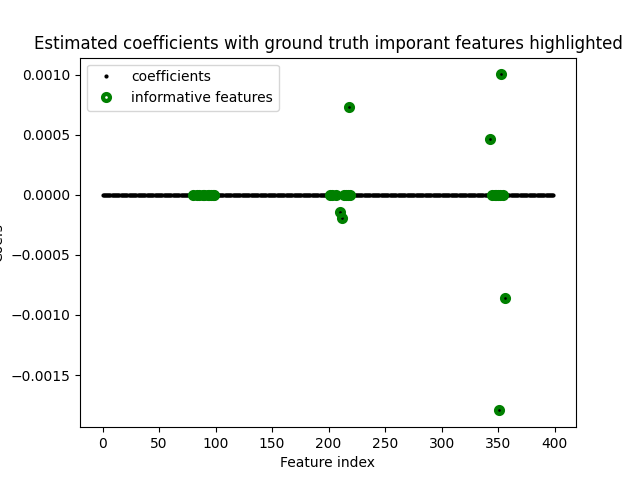
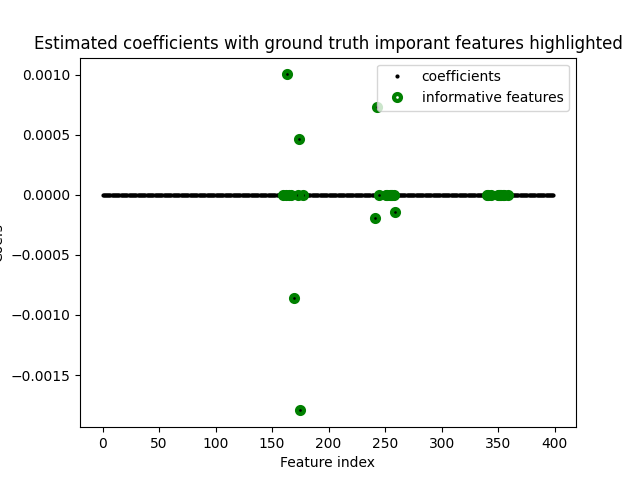
Deploying to gh-pages from  @ c9c7d6a699c53298a22735b88df6befc4d54f18e 🚀

diff --git a/searchindex.js b/searchindex.js
@@ -1,1 +1,1 @@
-Search.setIndex({docnames:["api","auto_examples/index","auto_examples/plot_classifier","auto_examples/sg_execution_times","contributing","getting_help","index","install","user_guide"],envversion:{"sphinx.domains.c":2,"sphinx.domains.changeset":1,"sphinx.domains.citation":1,"sphinx.domains.cpp":3,"sphinx.domains.index":1,"sphinx.domains.javascript":2,"sphinx.domains.math":2,"sphinx.domains.python":2,"sphinx.domains.rst":2,"sphinx.domains.std":1,"sphinx.ext.intersphinx":1,"sphinx.ext.viewcode":1,sphinx:56},filenames:["api.rst","auto_examples/index.rst","auto_examples/plot_classifier.rst","auto_examples/sg_execution_times.rst","contributing.rst","getting_help.rst","index.rst","install.rst","user_guide.rst"],objects:{"groupyr.datasets":{make_group_classification:[0,1,1,""],make_group_regression:[0,1,1,""]},groupyr:{LogisticSGL:[0,0,1,""],LogisticSGLCV:[0,0,1,""],SGL:[0,0,1,""],SGLCV:[0,0,1,""]}},objnames:{"0":["py","class","Python class"],"1":["py","function","Python function"]},objtypes:{"0":"py:class","1":"py:function"},terms:{"001":[0,6],"100":[0,2],"1000":0,"101":[2,3],"10618600":0,"108":6,"1080":0,"122":6,"1283339":6,"2003":0,"201":2,"2011":6,"2012":0,"2013":6,"2020":6,"203":2,"207":2,"210":2,"212":2,"214":2,"215":2,"217":2,"218":2,"219":2,"231":[0,6],"245":[0,6],"25080":6,"2825":6,"2830":6,"343":2,"345":2,"347":2,"348":2,"350":2,"351":2,"352":2,"353":2,"354":2,"356":2,"4064945":6,"4af1f417":6,"5281":6,"681250":0,"boolean":0,"case":0,"class":0,"default":0,"float":0,"function":0,"import":2,"int":0,"new":[5,7],"public":6,"return":0,"true":[0,2],"while":[0,8],And:6,For:0,The:[0,2,7],These:0,Use:0,Used:0,__init__:0,about:[0,5],accuracy_scor:0,across:0,actual:0,adam:6,adapt:0,add:0,added:0,after:0,alfr:6,algorithm:0,all:[0,1,5,7],allow:5,along:0,alpha:[0,6],alpha_:0,alpha_max:0,alpha_min:0,alphas_:0,also:[0,4],altern:7,amount:0,ani:[0,5],appli:0,appreci:6,appropri:[0,4],arang:2,arbitrari:0,ariel:6,around:0,arrai:0,ask:5,assign:[0,6],attribut:0,author:6,auto_exampl:3,auto_examples_jupyt:1,auto_examples_python:1,automat:0,avail:4,balanc:0,basic:6,becaus:0,befor:[0,5],belong:[0,6],benchmark:0,best:[0,2],beta:6,betti:6,between:[0,6],bia:0,bibtex:6,bioengin:6,biomed:6,black:2,bool:0,borrow:6,both:6,bug:5,built:0,buitnick:6,button:5,calcul:0,call:0,callabl:0,can:[0,5,6,7],canon:0,capabl:0,center:0,character:6,choic:0,chosen:0,chosen_features_:2,citat:6,class_sep:0,classes_:0,classif:0,classifi:0,click:[2,5],clone:7,close:0,cluster:0,code:[1,2,7],coef:[0,2],coef_:[0,2],coeffici:[0,2,6],collabor:[4,6],column:6,com:7,combin:[0,6],compar:2,compat:[0,6],compos:0,composit:6,compris:0,compromis:0,comput:[0,6],constant:0,construct:0,contain:0,context:0,contigu:0,contrast:0,contribut:7,control:6,converg:0,copi:0,copt:6,copy_x:0,cost:0,covari:[0,6],cpu:0,creat:0,credit:4,criterion:0,data:[0,5,6],dataset:2,decis:0,depend:[0,7],descent:0,design:[0,6],detail:[4,6],determin:0,develop:[4,6],deviat:0,differ:0,dimens:0,dimension:[0,6],distribut:0,divid:0,document:0,doi:[0,6],download:[1,2],drawn:0,duplic:0,dure:0,each:0,easier:0,ecml:6,edit:8,effect:0,effective_rank:0,effici:0,elasticnet:0,eleftherio:6,element:0,ell:6,els:0,encod:0,encourag:0,entri:6,eps:[0,2],equal:0,error:0,escienc:6,estim:[2,6],ethic:5,evalu:0,examin:5,exampl:[0,2,7],exce:0,exchang:0,execut:3,expect:0,experi:[0,6],explain:0,face:5,facilit:6,factor:0,fals:0,featur:[0,2,6,7],features_per_group:0,file:3,find:0,fit:[0,2,6],fit_intercept:0,flag:0,flip:6,flip_i:0,fold:0,formula:0,foundat:6,frac:6,fraction:0,friedman:[0,6],from:[0,2,4,6,7],full:2,further:[0,6,7],galleri:[1,2,6,7],garyfallidi:6,gaussian:0,gener:2,giant:0,git:7,github:[5,7],give:[0,6],global:6,going:5,good:0,gordon:6,gradient:0,grant:6,graphic:[0,6],green:2,grid:0,ground:2,group:[1,3],group_length:0,groupyr:[0,2,7],guid:[0,7],guidelin:[4,7],guyon:0,halford:6,happen:0,harder:0,has:0,hasti:[0,6],hat:6,have:0,heavili:6,here:[0,2,4],high:6,highlight:2,hot:0,how:[5,6,7],http:[6,7],hyper:0,hypercub:0,hyperparamet:[0,6],idx:2,ignor:0,imag:6,implement:6,impor:2,includ:[0,7],include_solver_trac:0,independ:0,index:2,indiana:6,indic:[0,2],infer:0,inform:[0,2,5,6,7],initi:0,input:0,instal:[5,6],instanc:0,institut:6,instruct:6,integ:0,intend:[0,6],intercept:0,intercept_:0,interdepend:0,introduc:0,introductori:[1,6],ipynb:2,issu:[5,8],iter:0,its:[6,7],jerom:0,joblib:0,journal:[0,6],jupyt:[1,2],just:0,kfold:0,know:5,known:0,l1_ratio:[0,2],l1_ratio_:0,label:[0,2],lambda:6,languag:6,larger:0,lasso:[1,3],last:0,learn:[0,6],legend:2,len:0,length:[0,6],less:7,librari:6,licens:[4,6],like:[0,7],linear:[0,6],linearli:0,list:0,loc:2,locat:0,logist:[0,1,3],logistic_sgl_path:0,logisticsgl:0,logisticsglcv:[0,2],logo:6,look:[0,6],machin:6,madelon:0,mai:[0,7],majora:6,make:[0,5],make_blob:0,make_classif:0,make_group_classif:[0,2],make_group_regress:0,make_multilabel_classif:0,make_regress:0,marker:2,mathbf:6,matplotlib:2,matrix:[0,6],max_it:0,maximum:0,mean:[0,4],mec:2,membership:0,method:0,metric:0,mew:2,mfc:2,might:5,mild:0,min_:6,mine:6,minut:2,model:[0,2,6],month:6,moor:6,more:0,mse_path_:0,multilabel:0,multipl:0,multipli:0,must:6,n_alpha:[0,2],n_class:[0,2],n_clusters_per_class:0,n_featur:[0,2],n_features_per_group:[0,2],n_fold:0,n_group:[0,2],n_inform:0,n_informative_group:[0,2],n_informative_per_group:[0,2],n_iter_:0,n_job:0,n_l1_ratio:0,n_redund:0,n_redundant_per_group:[0,2],n_repeat:0,n_repeated_per_group:[0,2],n_sampl:[0,2],n_target:0,narayan:6,nation:6,ndarrai:0,need:5,neurosci:6,next:7,nih:6,nine:0,nip:0,noah:0,nois:0,non:[0,2],none:[0,2],norm:0,normal:[0,6],note:0,notebook:[1,2],number:[0,6],numpi:[0,2],object:0,oct:6,often:5,one:0,onli:0,open:[4,8],oper:5,optim:[0,6],option:0,order:0,org:6,other:0,our:[4,5],out:[0,2],output:0,outsid:4,overal:0,overlap:0,overwritten:0,own:8,page:[5,6],parallel_backend:0,paramet:0,partit:0,pass:0,path:0,patient:8,pedregosa:6,penal:[0,6],penalti:[0,6],per:0,pertin:5,pgd:0,pip:7,pkdd:6,place:0,pleas:[0,5,8],plot:2,plot_classifi:[2,3],plt:2,point:0,polytop:0,posit:0,possibl:0,post:5,predefin:6,predict:0,predictor:0,preprocess:0,previou:0,primari:0,print:2,prior:0,problem:[0,6],procedur:5,processor:0,produc:0,project:[4,6],promot:6,proport:0,provid:[0,5],proxim:0,pseudo:0,publish:6,put:0,pypi:7,pyplot:2,python:[1,2,7],r01eb027585:6,randal:6,random:0,random_st:[0,2],randomli:0,randomst:0,reach:0,recommend:7,redund:0,regress:[0,2,6],regressor:0,regular:[0,6],relat:6,relationship:6,reli:6,remain:0,repeat:0,repositori:[5,7],reproduc:0,requir:7,research:[4,6],result:0,reus:0,richford:7,richi:6,richie_halford_adam_2020_4064945:6,robert:0,rokem:6,root:0,routin:0,run:[0,2,5],same:0,sampl:[0,5],satisfi:6,scale:[0,2],scale_l2_bi:0,scientif:6,scikit:[0,6],score:0,scorer:0,scoring_path_:0,script:2,search:0,second:2,see:[0,4,6,7],seed:0,select:0,send:5,set:[0,6],sgl:0,sgl_path:0,sglcv:0,shape:[0,2],share:5,shift:0,should:0,show:2,shuffl:0,side:0,signal:[1,3],signatur:0,silhouett:6,simon:[0,6],simplifi:0,simul:2,singular:0,size:0,sklearn:0,sloan:6,small:5,softwar:[4,5,6],solut:0,solv:0,solver:[0,6],some:0,sourc:[0,1,2,4,7],spars:[1,3],sparsiti:[0,6],specifi:0,sphinx:[1,2],split:0,splitter:0,spread:0,sqrt:6,squar:0,stabl:7,stack:0,standard:0,standardscal:0,start:0,statist:[0,6],std:0,stop:0,strategi:0,strength:[0,6],string:0,strong:0,studi:5,submatrix:6,subspac:0,subtract:0,suggest:8,sum:0,sum_:6,supervis:6,support:6,suppress:0,suppress_solver_warn:0,sure:5,synthet:0,system:5,target:6,task:0,techniqu:0,templat:6,term:0,test:0,than:0,thei:0,therefor:6,thi:[0,4,5,7,8],three:0,through:6,tibshirani:[0,6],time:2,titl:[2,6],tol:[0,2],toler:0,total:[0,2,3,6],train:0,trevor:0,truth:2,tune:0,type:0,univers:6,unless:0,unrel:0,unshuffl:0,updat:[0,8],url:6,usag:6,use:[0,4,6,7],used:0,useful:0,useful_indic:[0,2],useless:0,user:[0,7],uses:0,using:[0,6,7],valu:0,vari:0,variabl:[0,6],variant:0,variou:0,vector:[0,6],verbos:0,version:[0,5,6],vertic:0,via:0,vol:0,wai:7,warm:0,warm_start:0,warn:0,washington:6,weight:0,welcom:4,well:[5,6],what:5,when:0,where:[0,2,6],whether:0,which:0,whose:0,wise:[0,6],wish:0,within:0,workshop:6,would:[0,6,7],xlabel:2,year:6,yield:[0,6],ylabel:2,you:[0,4,5,6,7],your:[5,8],zenodo:6,zero:[0,2],zip:1},titles:["API Reference","General examples","Logistic Sparse Group Lasso for grouped sparse signals","Computation times","Contributing to <em>groupyr</em>","Getting help using <em>groupyr</em>","Groupyr: Sparse Group Lasso in Python","Installation","User guide : contents"],titleterms:{The:6,acknowledg:6,api:[0,6],cite:6,comput:3,construct:8,contribut:4,cross:0,dataset:0,develop:7,document:6,estim:0,exampl:[1,6],gener:[0,1],get:[5,6],group:[0,2,6],groupyr:[4,5,6],guid:[6,8],help:5,instal:7,lasso:[0,2,6],logist:2,python:6,refer:[0,6],releas:7,signal:2,spars:[0,2,6],start:6,time:3,under:8,user:[6,8],using:5,valid:0,version:7}})
+Search.setIndex({docnames:["api","auto_examples/index","auto_examples/plot_classifier","auto_examples/sg_execution_times","contributing","getting_help","index","install","user_guide"],envversion:{"sphinx.domains.c":2,"sphinx.domains.changeset":1,"sphinx.domains.citation":1,"sphinx.domains.cpp":3,"sphinx.domains.index":1,"sphinx.domains.javascript":2,"sphinx.domains.math":2,"sphinx.domains.python":2,"sphinx.domains.rst":2,"sphinx.domains.std":1,"sphinx.ext.intersphinx":1,"sphinx.ext.viewcode":1,sphinx:56},filenames:["api.rst","auto_examples/index.rst","auto_examples/plot_classifier.rst","auto_examples/sg_execution_times.rst","contributing.rst","getting_help.rst","index.rst","install.rst","user_guide.rst"],objects:{"groupyr.datasets":{make_group_classification:[0,1,1,""],make_group_regression:[0,1,1,""]},groupyr:{LogisticSGL:[0,0,1,""],LogisticSGLCV:[0,0,1,""],SGL:[0,0,1,""],SGLCV:[0,0,1,""]}},objnames:{"0":["py","class","Python class"],"1":["py","function","Python function"]},objtypes:{"0":"py:class","1":"py:function"},terms:{"001":[0,6],"100":[0,2],"1000":0,"10618600":0,"108":6,"1080":0,"122":6,"1283339":6,"160":2,"162":2,"163":2,"165":2,"167":2,"169":2,"173":2,"174":2,"175":2,"177":2,"2003":0,"2011":6,"2012":0,"2013":6,"2020":6,"231":[0,6],"241":2,"243":2,"245":[0,2,6],"25080":6,"251":2,"252":2,"254":2,"255":2,"256":2,"258":2,"259":2,"2825":6,"2830":6,"339":[2,3],"340":2,"341":2,"344":2,"350":2,"351":2,"352":2,"353":2,"354":2,"355":2,"359":2,"4064945":6,"4af1f417":6,"5281":6,"681250":0,"boolean":0,"case":0,"class":0,"default":0,"float":0,"function":0,"import":2,"int":0,"new":[5,7],"public":6,"return":0,"true":[0,2],"while":[0,8],And:6,For:0,The:[0,2,7],These:0,Use:0,Used:0,__init__:0,about:[0,5],accuracy_scor:0,across:0,actual:0,adam:6,adapt:0,add:0,added:0,after:0,alfr:6,algorithm:0,all:[0,1,5,7],allow:5,along:0,alpha:[0,6],alpha_:0,alpha_max:0,alpha_min:0,alphas_:0,also:[0,4],altern:7,amount:0,ani:[0,5],appli:0,appreci:6,appropri:[0,4],arang:2,arbitrari:0,ariel:6,around:0,arrai:0,ask:5,assign:[0,6],attribut:0,author:6,auto_exampl:3,auto_examples_jupyt:1,auto_examples_python:1,automat:0,avail:4,balanc:0,basic:6,becaus:0,befor:[0,5],belong:[0,6],benchmark:0,best:[0,2],beta:6,betti:6,between:[0,6],bia:0,bibtex:6,bioengin:6,biomed:6,black:2,bool:0,borrow:6,both:6,bug:5,built:0,buitnick:6,button:5,calcul:0,call:0,callabl:0,can:[0,5,6,7],canon:0,capabl:0,center:0,character:6,choic:0,chosen:0,chosen_features_:2,citat:6,class_sep:0,classes_:0,classif:0,classifi:0,click:[2,5],clone:7,close:0,cluster:0,code:[1,2,7],coef:[0,2],coef_:[0,2],coeffici:[0,2,6],collabor:[4,6],column:6,com:7,combin:[0,6],compar:2,compat:[0,6],compos:0,composit:6,compris:0,compromis:0,comput:[0,6],constant:0,construct:0,contain:0,context:0,contigu:0,contrast:0,contribut:7,control:6,converg:0,copi:0,copt:6,copy_x:0,cost:0,covari:[0,6],cpu:0,creat:0,credit:4,criterion:0,data:[0,5,6],dataset:2,decis:0,depend:[0,7],descent:0,design:[0,6],detail:[4,6],determin:0,develop:[4,6],deviat:0,differ:0,dimens:0,dimension:[0,6],distribut:0,divid:0,document:0,doi:[0,6],download:[1,2],drawn:0,duplic:0,dure:0,each:0,easier:0,ecml:6,edit:8,effect:0,effective_rank:0,effici:0,elasticnet:0,eleftherio:6,element:0,ell:6,els:0,encod:0,encourag:0,entri:6,eps:[0,2],equal:0,error:0,escienc:6,estim:[2,6],ethic:5,evalu:0,examin:5,exampl:[0,2,7],exce:0,exchang:0,execut:3,expect:0,experi:[0,6],explain:0,face:5,facilit:6,factor:0,fals:0,featur:[0,2,6,7],features_per_group:0,file:3,find:0,fit:[0,2,6],fit_intercept:0,flag:0,flip:6,flip_i:0,fold:0,formula:0,foundat:6,frac:6,fraction:0,friedman:[0,6],from:[0,2,4,6,7],full:2,further:[0,6,7],galleri:[1,2,6,7],garyfallidi:6,gaussian:0,gener:2,giant:0,git:7,github:[5,7],give:[0,6],global:6,going:5,good:0,gordon:6,gradient:0,grant:6,graphic:[0,6],green:2,grid:0,ground:2,group:[1,3],group_length:0,groupyr:[0,2,7],guid:[0,7],guidelin:[4,7],guyon:0,halford:6,happen:0,harder:0,has:0,hasti:[0,6],hat:6,have:0,heavili:6,here:[0,2,4],high:6,highlight:2,hot:0,how:[5,6,7],http:[6,7],hyper:0,hypercub:0,hyperparamet:[0,6],idx:2,ignor:0,imag:6,implement:6,impor:2,includ:[0,7],include_solver_trac:0,independ:0,index:2,indiana:6,indic:[0,2],infer:0,inform:[0,2,5,6,7],initi:0,input:0,instal:[5,6],instanc:0,institut:6,instruct:6,integ:0,intend:[0,6],intercept:0,intercept_:0,interdepend:0,introduc:0,introductori:[1,6],ipynb:2,issu:[5,8],iter:0,its:[6,7],jerom:0,joblib:0,journal:[0,6],jupyt:[1,2],just:0,kfold:0,know:5,known:0,l1_ratio:[0,2],l1_ratio_:0,label:[0,2],lambda:6,languag:6,larger:0,lasso:[1,3],last:0,learn:[0,6],legend:2,len:0,length:[0,6],less:7,librari:6,licens:[4,6],like:[0,7],linear:[0,6],linearli:0,list:0,loc:2,locat:0,logist:[0,1,3],logistic_sgl_path:0,logisticsgl:0,logisticsglcv:[0,2],logo:6,look:[0,6],machin:6,madelon:0,mai:[0,7],majora:6,make:[0,5],make_blob:0,make_classif:0,make_group_classif:[0,2],make_group_regress:0,make_multilabel_classif:0,make_regress:0,marker:2,mathbf:6,matplotlib:2,matrix:[0,6],max_it:0,maximum:0,mean:[0,4],mec:2,membership:0,method:0,metric:0,mew:2,mfc:2,might:5,mild:0,min_:6,mine:6,minut:2,model:[0,2,6],month:6,moor:6,more:0,mse_path_:0,multilabel:0,multipl:0,multipli:0,must:6,n_alpha:[0,2],n_class:[0,2],n_clusters_per_class:0,n_featur:[0,2],n_features_per_group:[0,2],n_fold:0,n_group:[0,2],n_inform:0,n_informative_group:[0,2],n_informative_per_group:[0,2],n_iter_:0,n_job:0,n_l1_ratio:0,n_redund:0,n_redundant_per_group:[0,2],n_repeat:0,n_repeated_per_group:[0,2],n_sampl:[0,2],n_target:0,narayan:6,nation:6,ndarrai:0,need:5,neurosci:6,next:7,nih:6,nine:0,nip:0,noah:0,nois:0,non:[0,2],none:[0,2],norm:0,normal:[0,6],note:0,notebook:[1,2],number:[0,6],numpi:[0,2],object:0,oct:6,often:5,one:0,onli:0,open:[4,8],oper:5,optim:[0,6],option:0,order:0,org:6,other:0,our:[4,5],out:[0,2],output:0,outsid:4,overal:0,overlap:0,overwritten:0,own:8,page:[5,6],parallel_backend:0,paramet:0,partit:0,pass:0,path:0,patient:8,pedregosa:6,penal:[0,6],penalti:[0,6],per:0,pertin:5,pgd:0,pip:7,pkdd:6,place:0,pleas:[0,5,8],plot:2,plot_classifi:[2,3],plt:2,point:0,polytop:0,posit:0,possibl:0,post:5,predefin:6,predict:0,predictor:0,preprocess:0,previou:0,primari:0,print:2,prior:0,problem:[0,6],procedur:5,processor:0,produc:0,project:[4,6],promot:6,proport:0,provid:[0,5],proxim:0,pseudo:0,publish:6,put:0,pypi:7,pyplot:2,python:[1,2,7],r01eb027585:6,randal:6,random:0,random_st:[0,2],randomli:0,randomst:0,reach:0,recommend:7,redund:0,regress:[0,2,6],regressor:0,regular:[0,6],relat:6,relationship:6,reli:6,remain:0,repeat:0,repositori:[5,7],reproduc:0,requir:7,research:[4,6],result:0,reus:0,richford:7,richi:6,richie_halford_adam_2020_4064945:6,robert:0,rokem:6,root:0,routin:0,run:[0,2,5],same:0,sampl:[0,5],satisfi:6,scale:[0,2],scale_l2_bi:0,scientif:6,scikit:[0,6],score:0,scorer:0,scoring_path_:0,script:2,search:0,second:2,see:[0,4,6,7],seed:0,select:0,send:5,set:[0,6],sgl:0,sgl_path:0,sglcv:0,shape:[0,2],share:5,shift:0,should:0,show:2,shuffl:0,side:0,signal:[1,3],signatur:0,silhouett:6,simon:[0,6],simplifi:0,simul:2,singular:0,size:0,sklearn:0,sloan:6,small:5,softwar:[4,5,6],solut:0,solv:0,solver:[0,6],some:0,sourc:[0,1,2,4,7],spars:[1,3],sparsiti:[0,6],specifi:0,sphinx:[1,2],split:0,splitter:0,spread:0,sqrt:6,squar:0,stabl:7,stack:0,standard:0,standardscal:0,start:0,statist:[0,6],std:0,stop:0,strategi:0,strength:[0,6],string:0,strong:0,studi:5,submatrix:6,subspac:0,subtract:0,suggest:8,sum:0,sum_:6,supervis:6,support:6,suppress:0,suppress_solver_warn:0,sure:5,synthet:0,system:5,target:6,task:0,techniqu:0,templat:6,term:0,test:0,than:0,thei:0,therefor:6,thi:[0,4,5,7,8],three:0,through:6,tibshirani:[0,6],time:2,titl:[2,6],tol:[0,2],toler:0,total:[0,2,3,6],train:0,trevor:0,truth:2,tune:0,type:0,univers:6,unless:0,unrel:0,unshuffl:0,updat:[0,8],url:6,usag:6,use:[0,4,6,7],used:0,useful:0,useful_indic:[0,2],useless:0,user:[0,7],uses:0,using:[0,6,7],valu:0,vari:0,variabl:[0,6],variant:0,variou:0,vector:[0,6],verbos:0,version:[0,5,6],vertic:0,via:0,vol:0,wai:7,warm:0,warm_start:0,warn:0,washington:6,weight:0,welcom:4,well:[5,6],what:5,when:0,where:[0,2,6],whether:0,which:0,whose:0,wise:[0,6],wish:0,within:0,workshop:6,would:[0,6,7],xlabel:2,year:6,yield:[0,6],ylabel:2,you:[0,4,5,6,7],your:[5,8],zenodo:6,zero:[0,2],zip:1},titles:["API Reference","General examples","Logistic Sparse Group Lasso for grouped sparse signals","Computation times","Contributing to <em>groupyr</em>","Getting help using <em>groupyr</em>","Groupyr: Sparse Group Lasso in Python","Installation","User guide : contents"],titleterms:{The:6,acknowledg:6,api:[0,6],cite:6,comput:3,construct:8,contribut:4,cross:0,dataset:0,develop:7,document:6,estim:0,exampl:[1,6],gener:[0,1],get:[5,6],group:[0,2,6],groupyr:[4,5,6],guid:[6,8],help:5,instal:7,lasso:[0,2,6],logist:2,python:6,refer:[0,6],releas:7,signal:2,spars:[0,2,6],start:6,time:3,under:8,user:[6,8],using:5,valid:0,version:7}})

diff --git a/auto_examples/plot_classifier.html b/auto_examples/plot_classifier.html
@@ -185,10 +185,10 @@ ground-truth.</p>
 <img alt="Estimated coefficients with ground truth imporant features highlighted" class="sphx-glr-single-img" src="../_images/sphx_glr_plot_classifier_001.png" />
 <p class="sphx-glr-script-out">Out:</p>
 <div class="sphx-glr-script-out highlight-none notranslate"><div class="highlight"><pre><span></span>Indices of ground-truth informative features:
-[ 80  84  85  89  90  93  94  96  98  99 201 203 207 210 212 214 215 217
- 218 219 343 345 347 348 350 351 352 353 354 356]
+[160 162 163 165 167 169 173 174 175 177 241 243 245 251 252 254 255 256
+ 258 259 340 341 344 350 351 352 353 354 355 359]
 Indices of non-zero estimated coefs:
-[210 212 218 343 350 351 353 356]
+[163 165 169 174 175 241 243 259]
 </pre></div>
 </div>
 <div class="line-block">
@@ -258,7 +258,7 @@ Indices of non-zero estimated coefs:
 <span class="nb">print</span><span class="p">(</span><a href="../api.html#groupyr.LogisticSGLCV" title="groupyr.LogisticSGLCV" class="sphx-glr-backref-module-groupyr sphx-glr-backref-type-py-class sphx-glr-backref-instance"><span class="n">model</span></a><span class="o">.</span><span class="n">chosen_features_</span><span class="p">)</span>
 </pre></div>
 </div>
-<p class="sphx-glr-timing"><strong>Total running time of the script:</strong> ( 1 minutes  19.101 seconds)</p>
+<p class="sphx-glr-timing"><strong>Total running time of the script:</strong> ( 1 minutes  57.339 seconds)</p>
 <div class="sphx-glr-footer class sphx-glr-footer-example docutils container" id="sphx-glr-download-auto-examples-plot-classifier-py">
 <div class="sphx-glr-download sphx-glr-download-python docutils container">
 <p><a class="reference download internal" download="" href="../_downloads/084669b45b226af6f637ab8457c8c5aa/plot_classifier.py"><code class="xref download docutils literal notranslate"><span class="pre">Download</span> <span class="pre">Python</span> <span class="pre">source</span> <span class="pre">code:</span> <span class="pre">plot_classifier.py</span></code></a></p>

diff --git a/auto_examples/sg_execution_times.html b/auto_examples/sg_execution_times.html
@@ -168,7 +168,7 @@
             
   <div class="section" id="computation-times">
 <span id="sphx-glr-auto-examples-sg-execution-times"></span><h1>Computation times<a class="headerlink" href="#computation-times" title="Permalink to this headline">¶</a></h1>
-<p><strong>01:19.101</strong> total execution time for <strong>auto_examples</strong> files:</p>
+<p><strong>01:57.339</strong> total execution time for <strong>auto_examples</strong> files:</p>
 <table class="docutils align-default">
 <colgroup>
 <col style="width: 80%" />
@@ -177,7 +177,7 @@
 </colgroup>
 <tbody>
 <tr class="row-odd"><td><p><a class="reference internal" href="plot_classifier.html#sphx-glr-auto-examples-plot-classifier-py"><span class="std std-ref">Logistic Sparse Group Lasso for grouped sparse signals</span></a> (<code class="docutils literal notranslate"><span class="pre">plot_classifier.py</span></code>)</p></td>
-<td><p>01:19.101</p></td>
+<td><p>01:57.339</p></td>
 <td><p>0.0 MB</p></td>
 </tr>
 </tbody>
